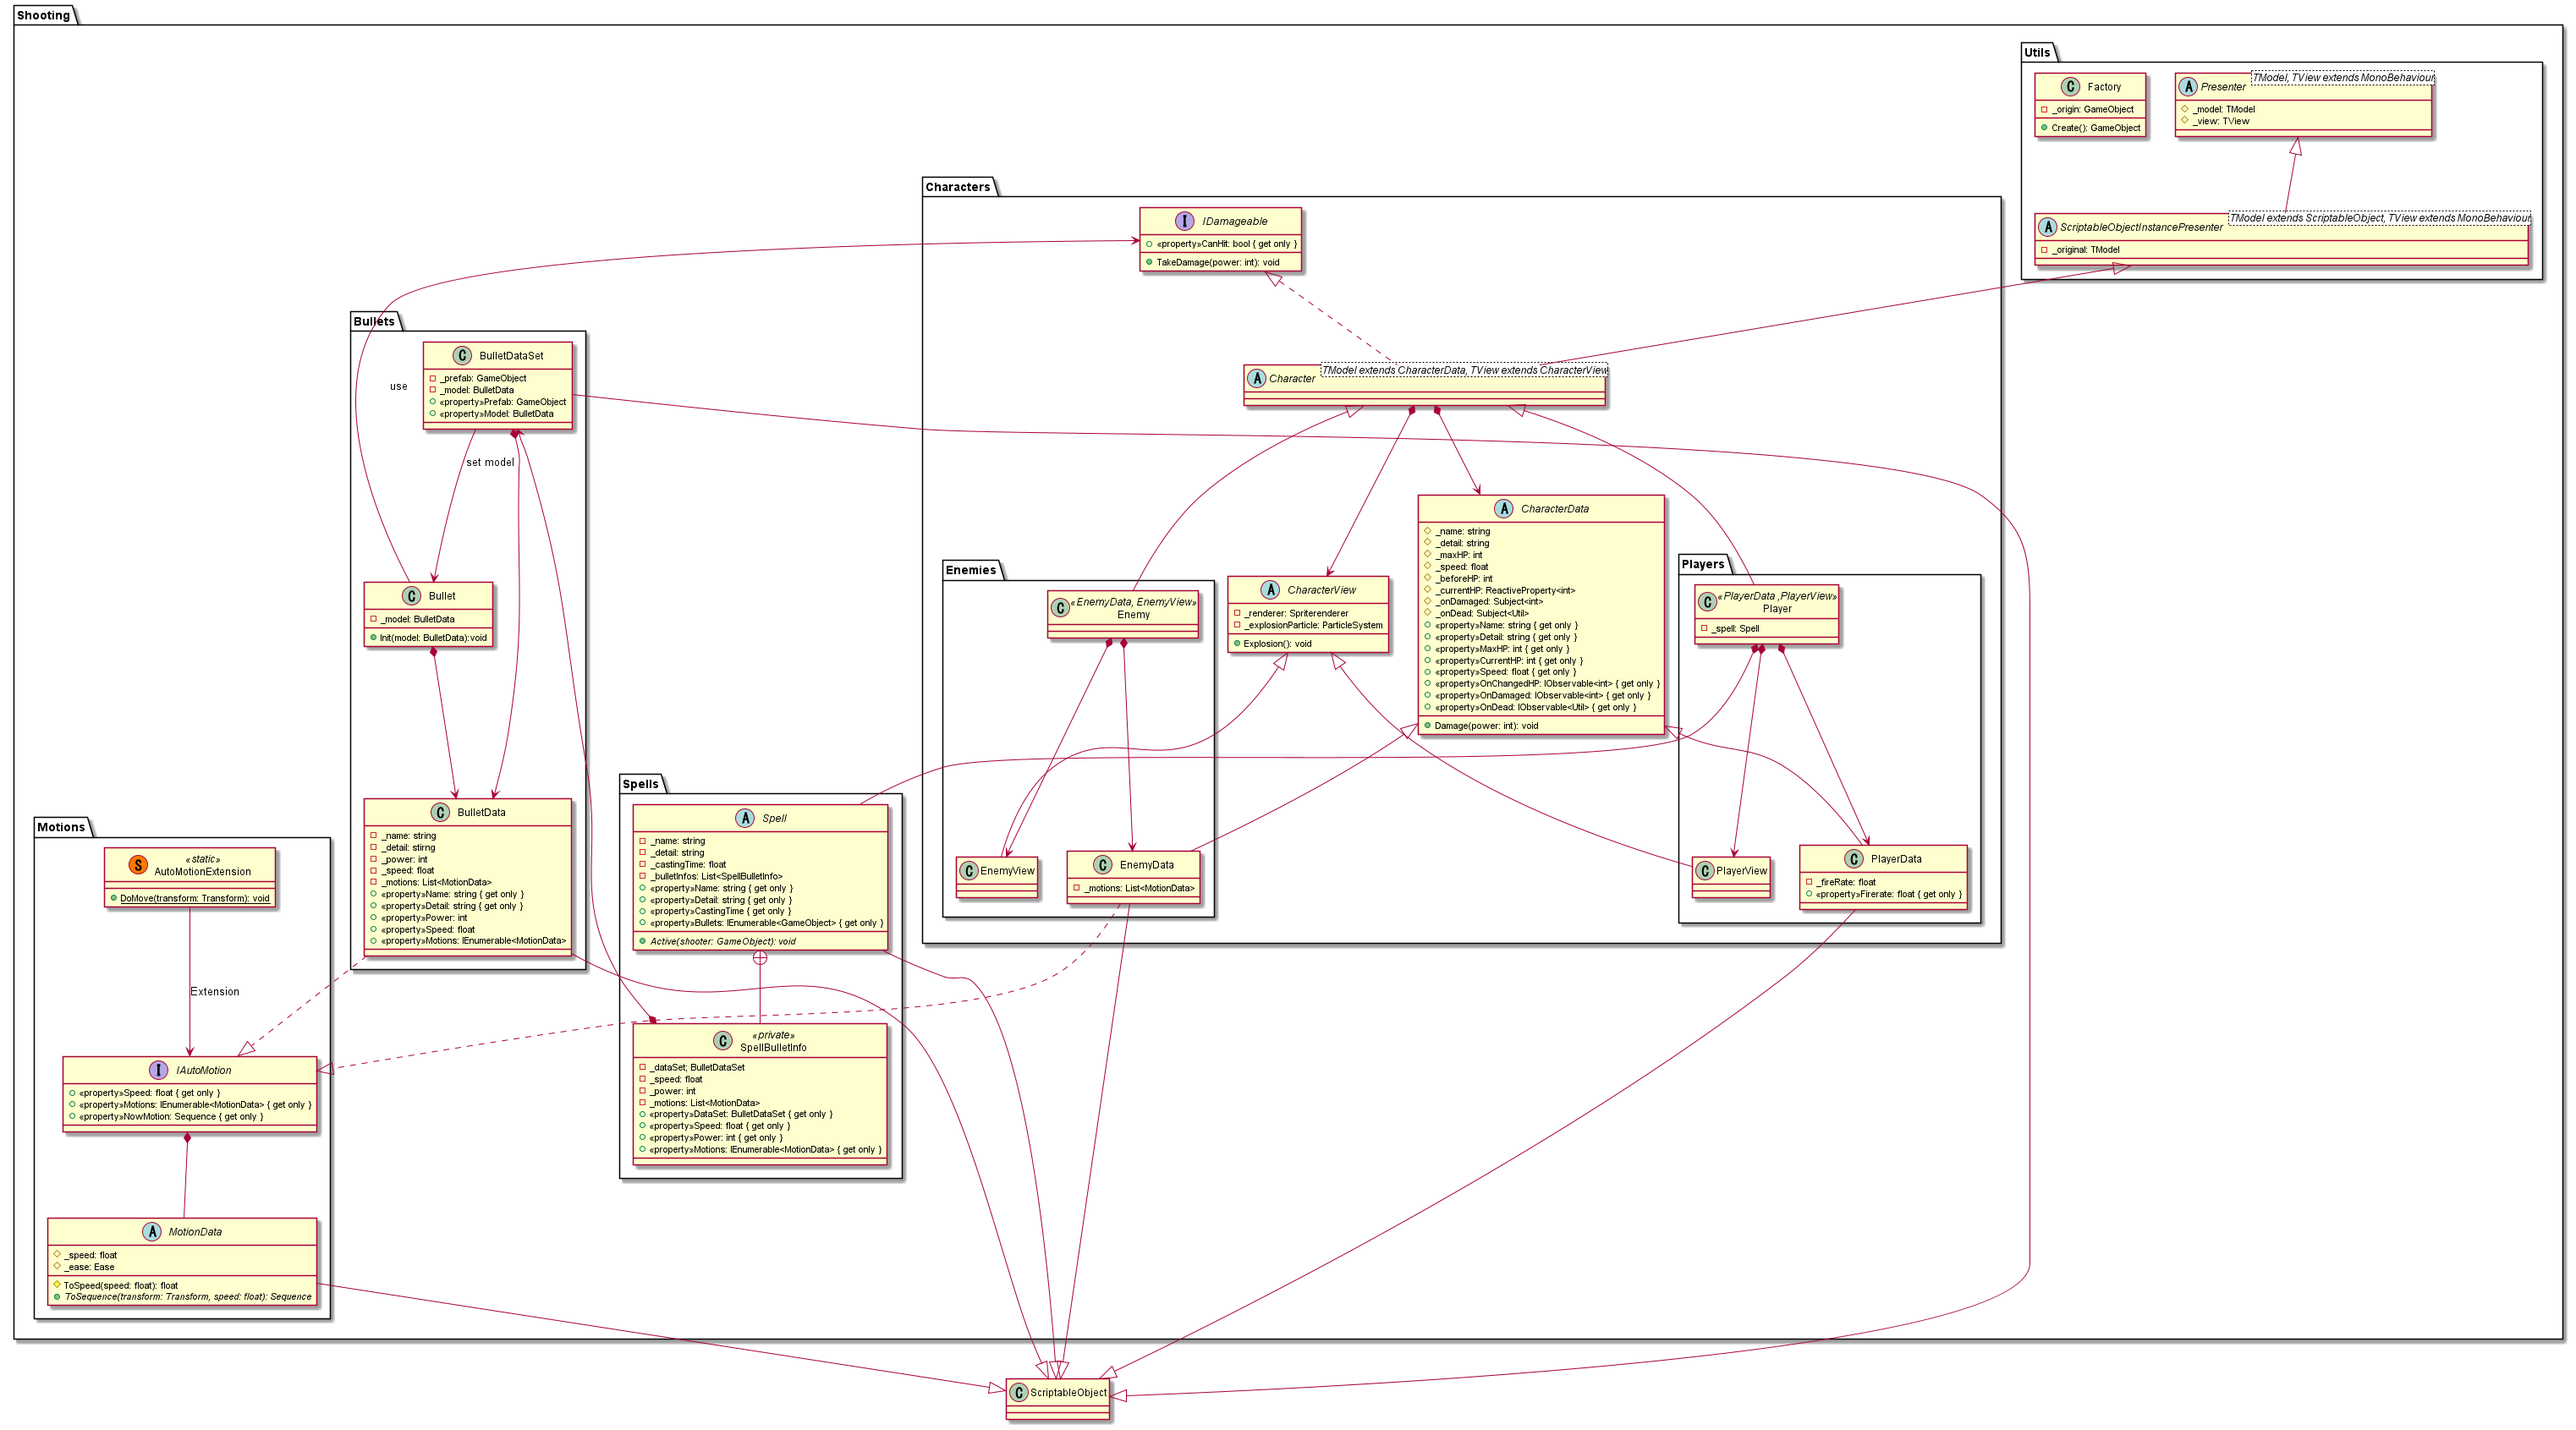
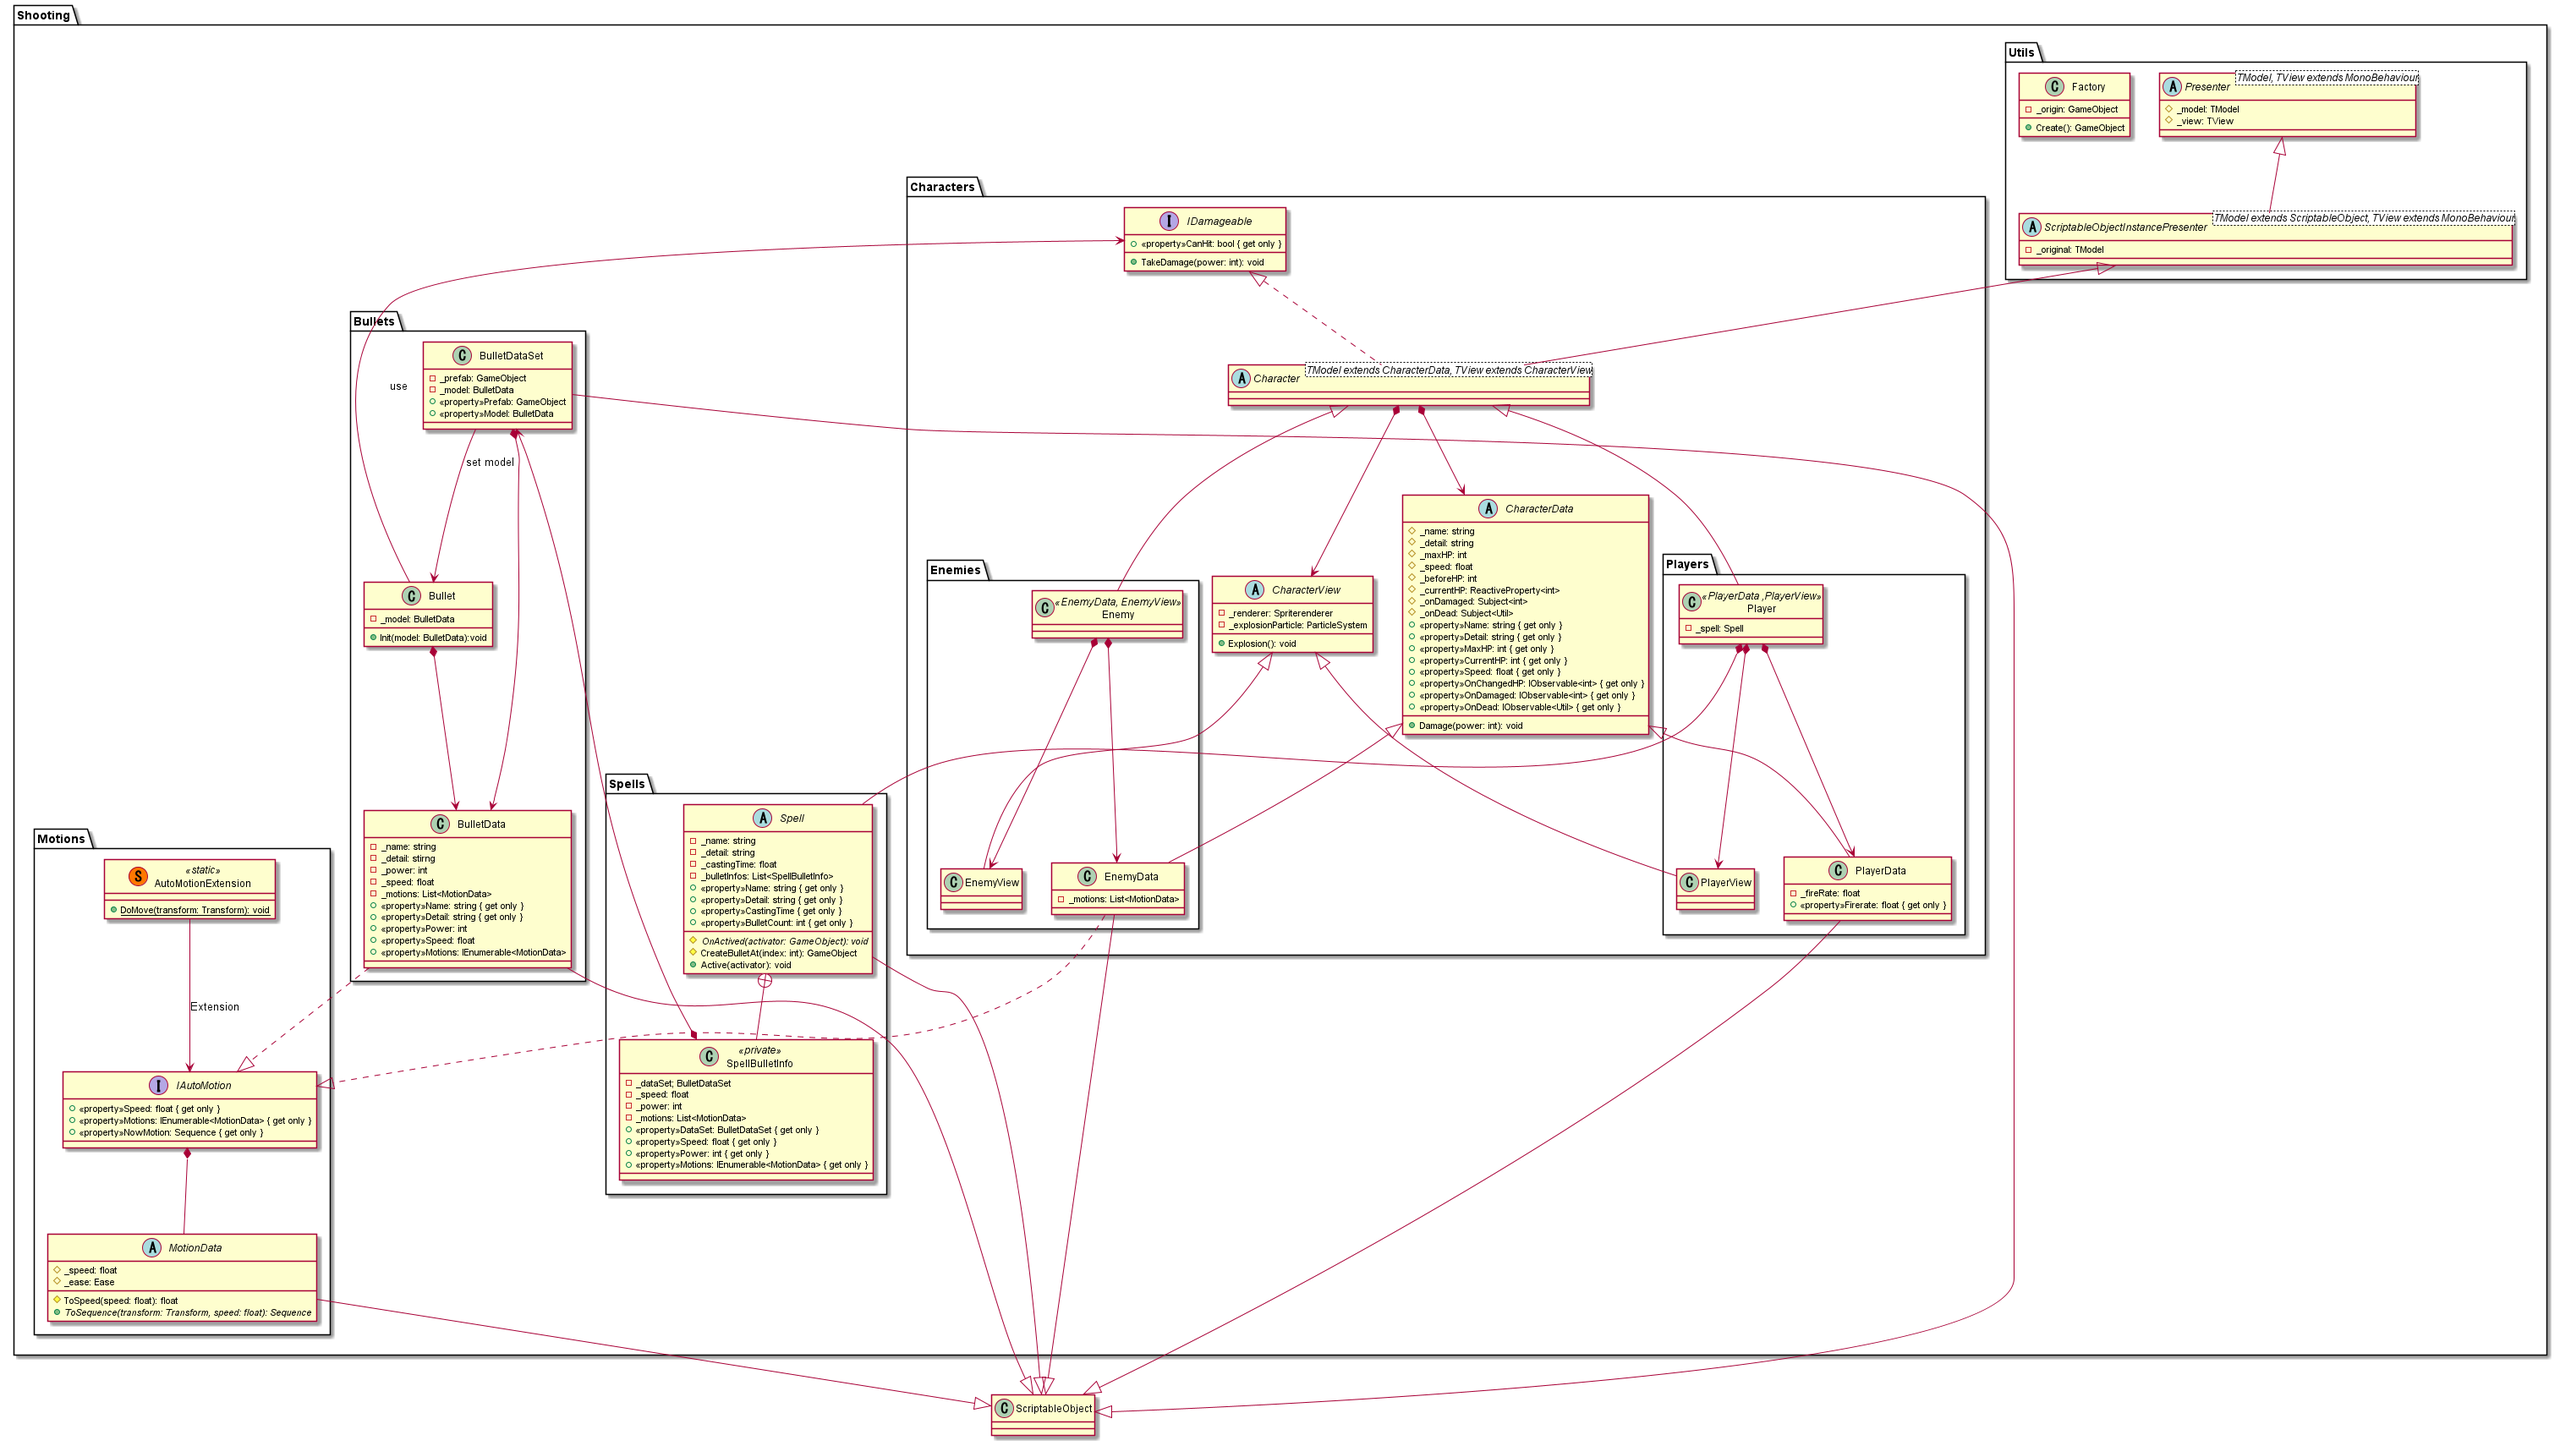
spell abstract method

diff --git a/Assets/Project/Scripts/Spells/Spell.cs b/Assets/Project/Scripts/Spells/Spell.cs
@@ -34,26 +34,32 @@ namespace Shooting.Spells
         private float _castingTime;
         [SerializeField]
         private List<SpellBulletInfo> _bulletInfos;
+        private int _layer;
 
         public string Name { get { return _name; } }
         public string Detail { get { return _detail; } }
         public float CastingTime { get { return _castingTime; } }
-        public IEnumerable<GameObject> Bullets
-        {
-            get
-            {
-                return _bulletInfos.Select(info =>
-                {
-                    var dataSet = Instantiate(info.DataSet);
-                    dataSet.Model.Motions = info.Motions;
-                    dataSet.Model.Power = info.Power;
-                    dataSet.Model.Speed = info.Speed;
-                    return dataSet.Prefab;
-                });
-            }
-        }
         public int BulletCount { get { return _bulletInfos.Count(); } }
 
-        public abstract void Active(GameObject shooter);
+        protected abstract void OnActived(GameObject activator);
+
+        protected GameObject CreateBulletAt(int index)
+        {
+            var clamped = Mathf.Clamp(index, 0, BulletCount - 1);
+            var element = _bulletInfos.ElementAt(clamped);
+            var dataSet = Instantiate(element.DataSet);
+            var info = _bulletInfos.ElementAt(clamped);
+            dataSet.Model.Motions = info.Motions;
+            dataSet.Model.Power = info.Power;
+            dataSet.Model.Speed = info.Speed;
+            dataSet.Prefab.layer = _layer;
+            return Instantiate(dataSet.Prefab);
+        }
+
+        public void Active(GameObject activator)
+        {
+            _layer = LayerMask.NameToLayer(activator.tag + "sBullet");
+            OnActived(activator);
+        }
     }
 }

diff --git a/Assets/Project/Scripts/Spells/NWay.cs b/Assets/Project/Scripts/Spells/NWay.cs
@@ -12,19 +12,16 @@ namespace Shooting.Spells
         [SerializeField, Range(0, 360)]
         private float _angle;
 
-        public override void Active(GameObject activator)
+        protected override void OnActived(GameObject activator)
         {
-            var y = activator.CompareTag("Player") ? 0.0f : 180.0f;
             var angleRange = Mathf.Deg2Rad * _angle;
-            var bulletLayer = LayerMask.NameToLayer(activator.tag + "sBullet");
             for(var i = 0; i < _wayNumber; i++)
             {
                 var index = BulletCount % (i + 1);
-                var bullet = Bullets.ElementAtOrDefault(Mathf.Clamp(index, 0, BulletCount - 1));
+                var bullet = CreateBulletAt(index);
                 var span = angleRange / (_wayNumber - 1);
                 var baseAngle = 0.5f * angleRange;
                 var theta = span * i - baseAngle;
-                bullet.layer = bulletLayer;
                 bullet.transform.position = activator.transform.position;
                 bullet.transform.rotation = Quaternion.AngleAxis(Mathf.Rad2Deg * theta, Vector3.forward);
                 bullet.transform.parent = null;

diff --git a/Assets/Project/Scripts/Spells/Single.cs b/Assets/Project/Scripts/Spells/Single.cs
@@ -5,11 +5,12 @@ namespace Shooting.Spells
     [CreateAssetMenu(fileName = "Spell", menuName = "Shooting/Spell/Single", order = 0)]
     public class Single : Spell
     {
-        public override void Active(GameObject shooter)
+        protected override void OnActived(GameObject activator)
         {
-            foreach(var bullet in Bullets)
+            for(var i = 0; i < BulletCount; i++)
             {
-                bullet.transform.position = shooter.transform.position;
+                var bullet = CreateBulletAt(i);
+                bullet.transform.position = activator.transform.position;
                 bullet.transform.parent = null;
             }
         }

diff --git a/Assets/Project/Scripts/Bullets/BulletDataSet.cs b/Assets/Project/Scripts/Bullets/BulletDataSet.cs
@@ -10,7 +10,7 @@ namespace Shooting.Bullets
         [SerializeField]
         private BulletData _model;
 
-        public GameObject Prefab { get { return Instantiate(_prefab); } }
+        public GameObject Prefab { get { return _prefab; } }
         public BulletData Model { get { return _model; } }
 
         private void OnEnable()
